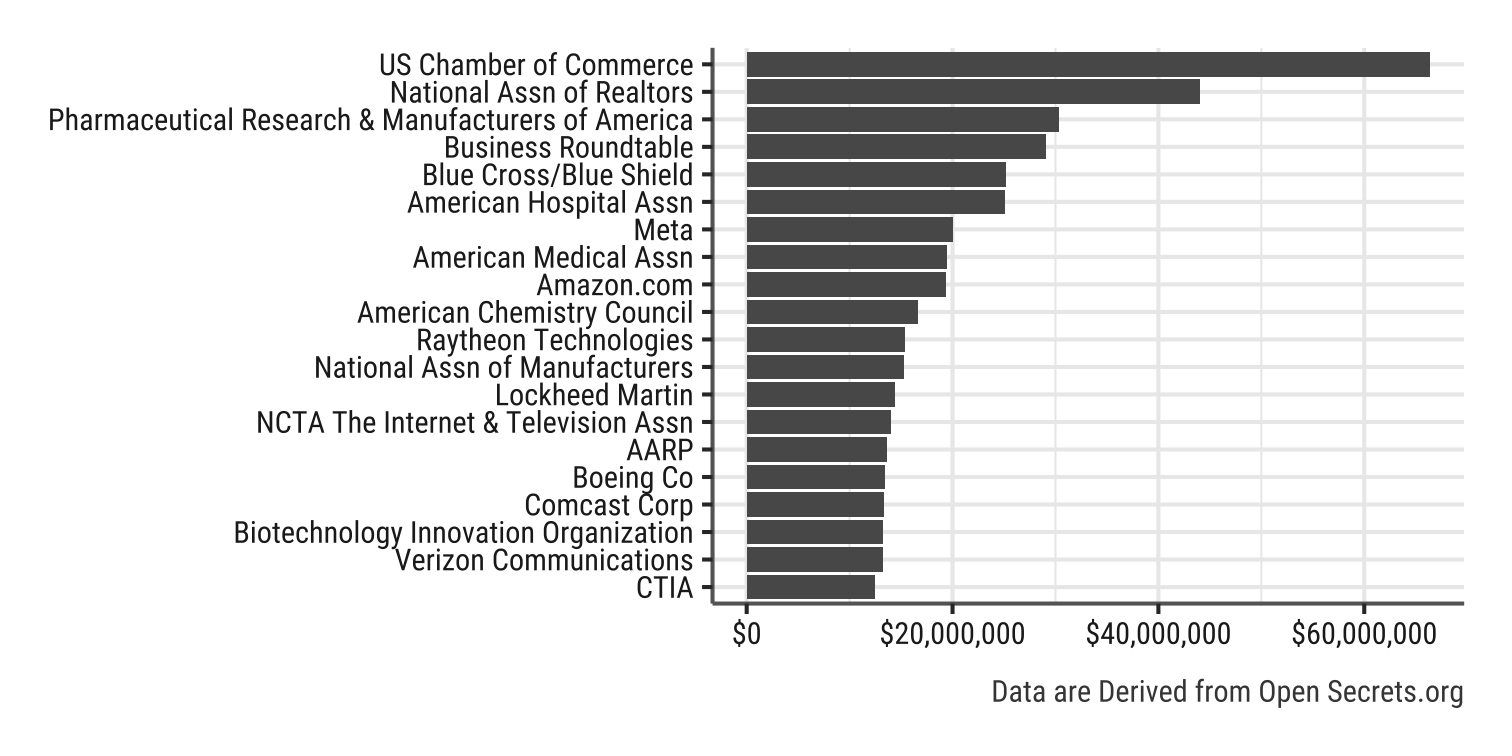
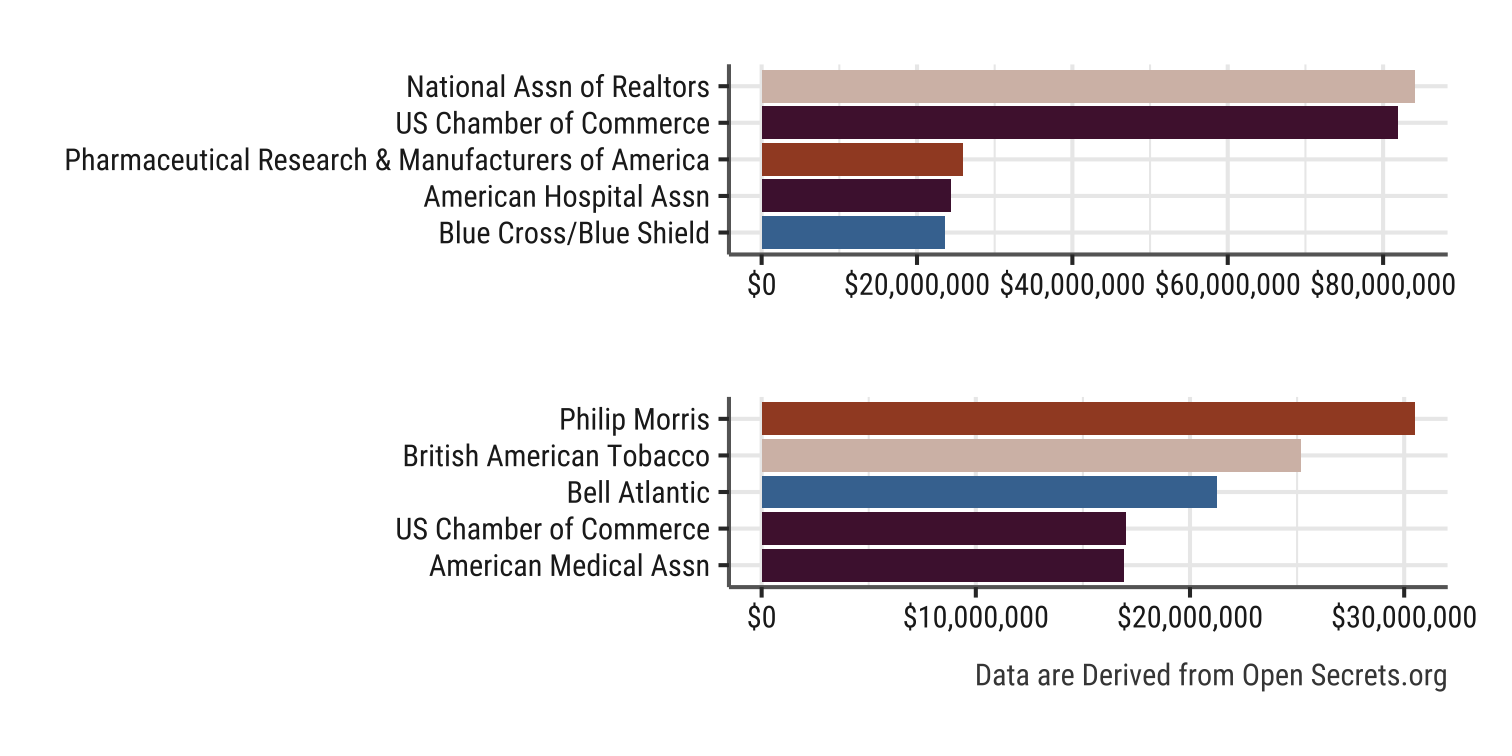
Add updated special interest slides

Changed region(s): [[0.0311, 0.0608, 0.9947, 0.8519], [0.6528, 0.8823, 0.9636, 0.9431]]

diff --git a/static/slides/Parties-Interest-Groups/political-parties.html b/static/slides/Parties-Interest-Groups/political-parties.html
@@ -4,7 +4,7 @@
     <title>Political Parties &amp; Interest Groups</title>
     <meta charset="utf-8" />
     <meta name="author" content="Josh Allen" />
-    <meta name="date" content="2022-04-04" />
+    <meta name="date" content="2022-04-05" />
     <script src="political-parties_files/header-attrs/header-attrs.js"></script>
     <link href="political-parties_files/remark-css/default.css" rel="stylesheet" />
     <link href="political-parties_files/panelset/panelset.css" rel="stylesheet" />
@@ -25,7 +25,7 @@ class: center, middle, inverse, title-slide
 
 # Political Parties &amp; Interest Groups
 ### Josh Allen
-### 2022-04-04
+### 2022-04-05
 
 ---
 
@@ -987,12 +987,12 @@ layout:false
 ---
 
 ---
-## Top Spenders 
+
+
+&lt;img src="figs/unnamed-chunk-7-1.png" width="100%" style="display: block; margin: auto;" /&gt;
 
 
 
-
-&lt;img src="figs/unnamed-chunk-8-1.gif" width="100%" style="display: block; margin: auto;" /&gt;
 
 
 
@@ -1006,6 +1006,7 @@ It is something like 80% of all lobbyists are business groups. They tend to be t
 
 
 ---
+
 
 
 
